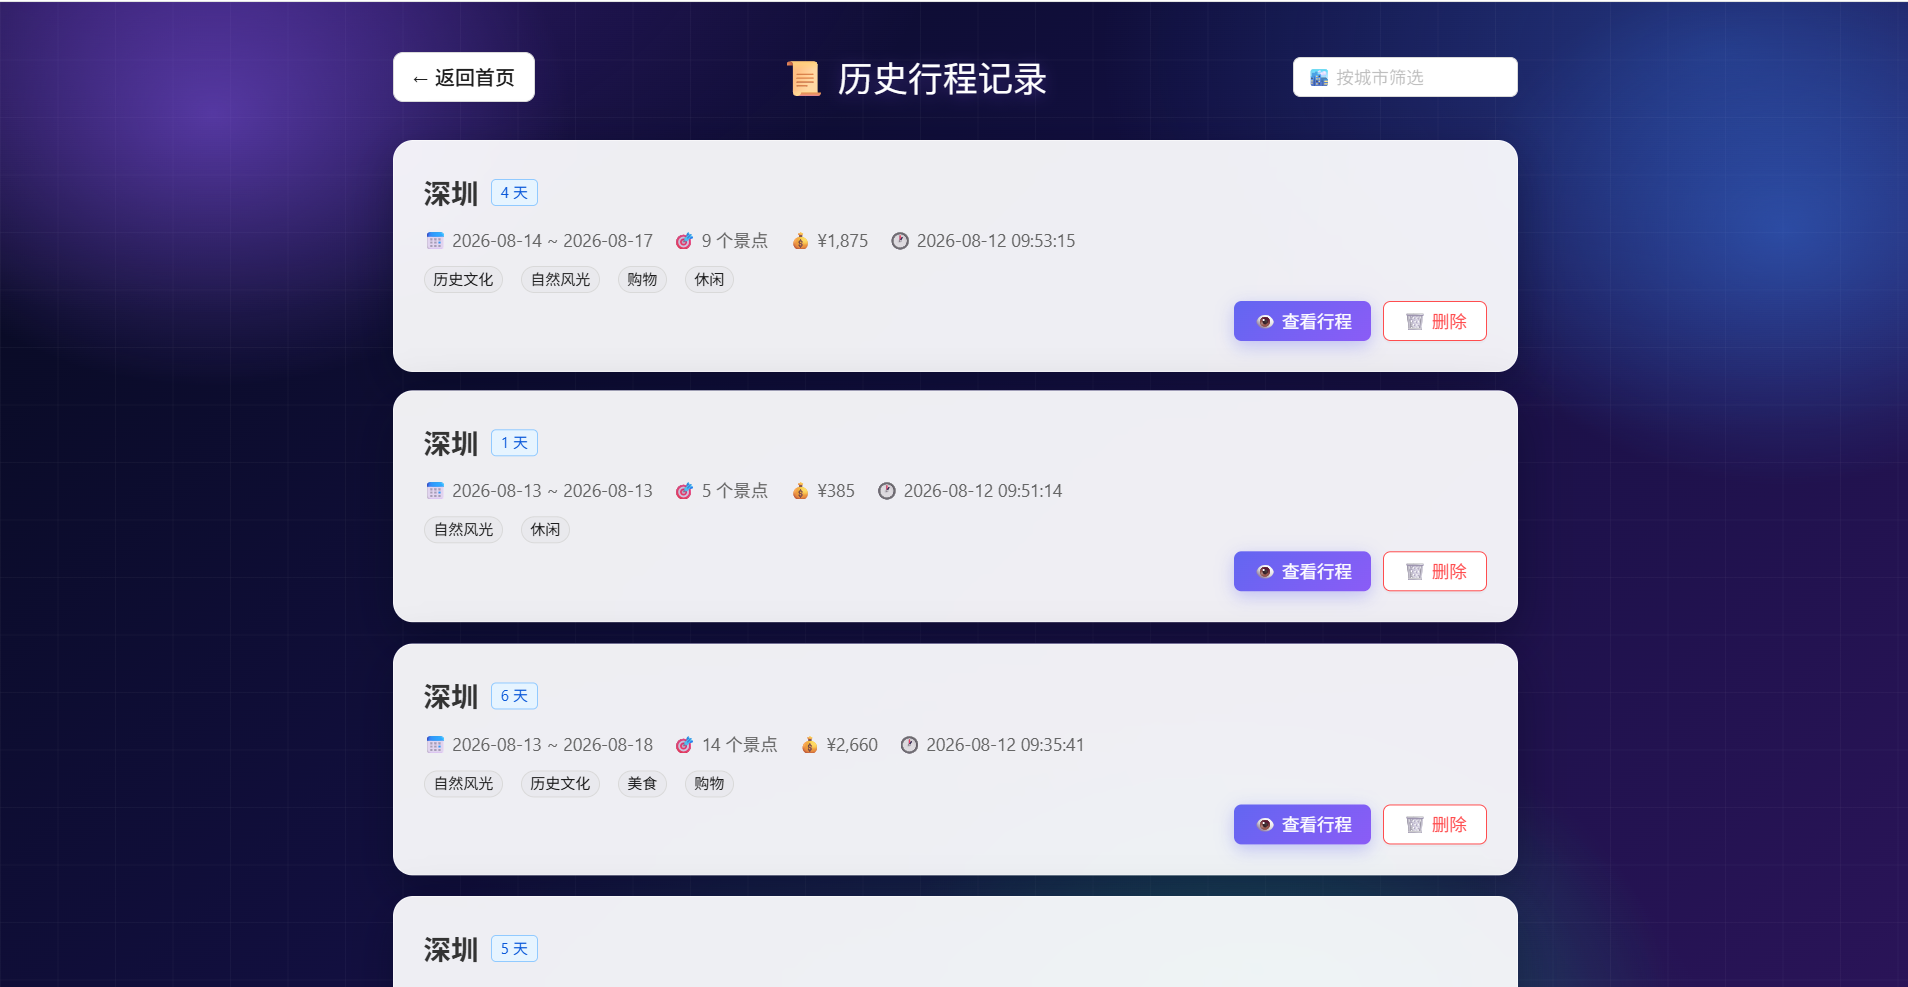
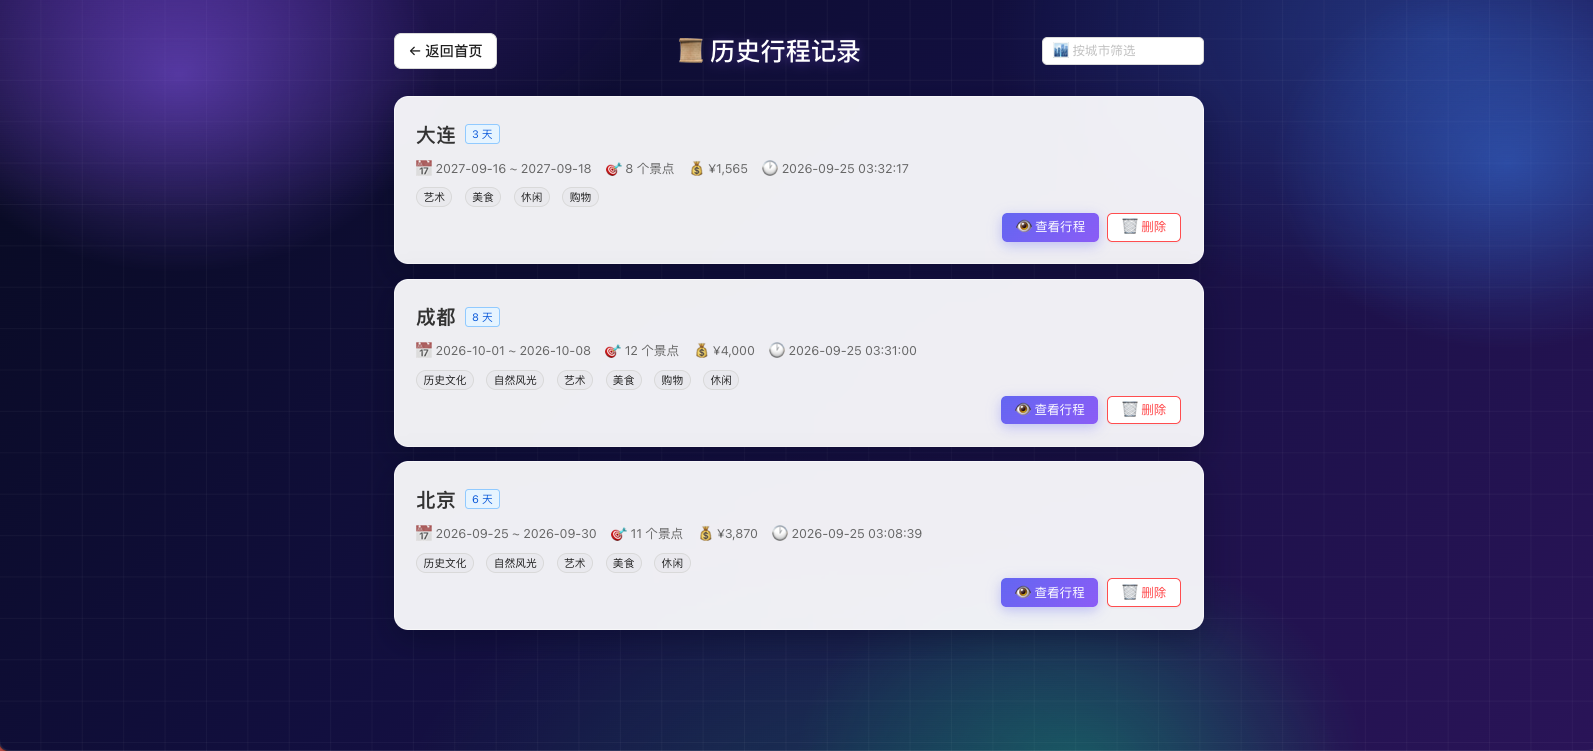
更新界面截图并补充README预览图
- 新增 result2.png 行程详情截图, 更新首页/结果/历史页截图

Changed region(s): [[0.1846, 0.0306, 0.7997, 1.0], [0.3999, 0.0306, 0.5537, 0.0919]]

diff --git a/README.md b/README.md
@@ -23,7 +23,7 @@
 
 ![行程结果页 - 每日行程与地图](docs/screenshots/result.png)
 
-![行程结果页 - 行程详情](docs/screenshots/result1.png)
+![行程结果页 - 行程详情](docs/screenshots/result1.png) ![行程结果页 - 行程详情](docs/screenshots/result2.png)
 
 ![历史记录页 - 历史行程管理](docs/screenshots/history.png)
 
